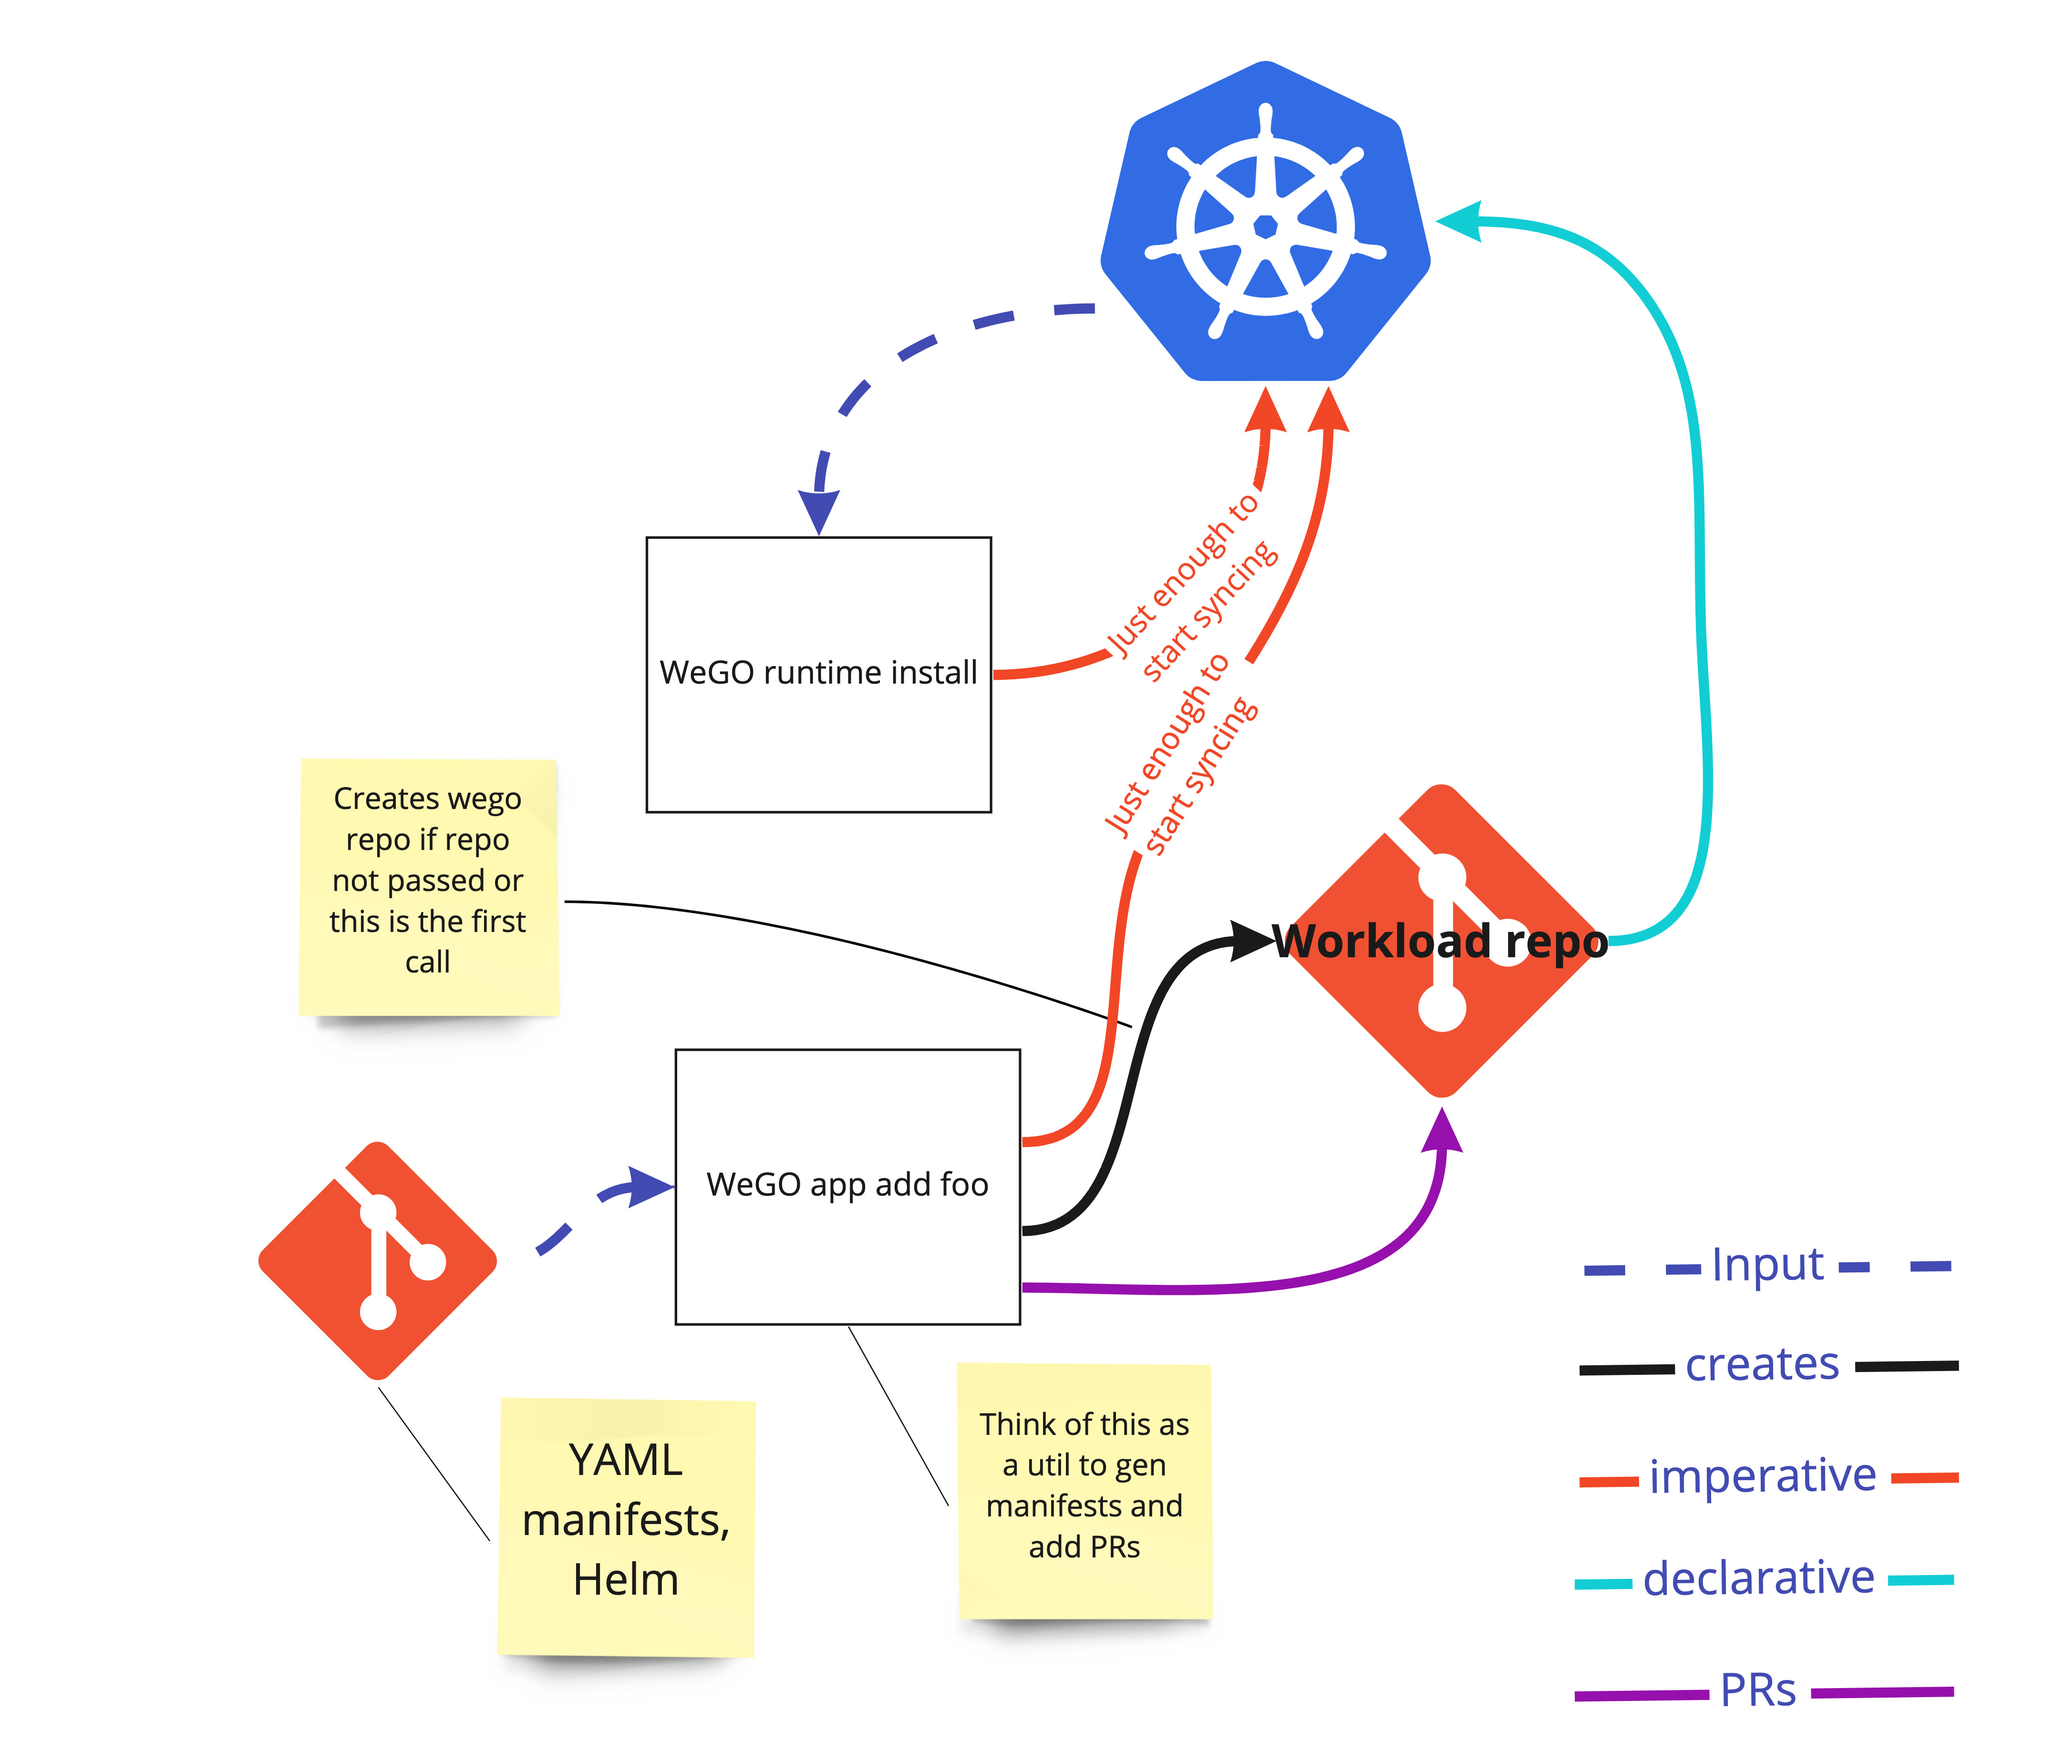
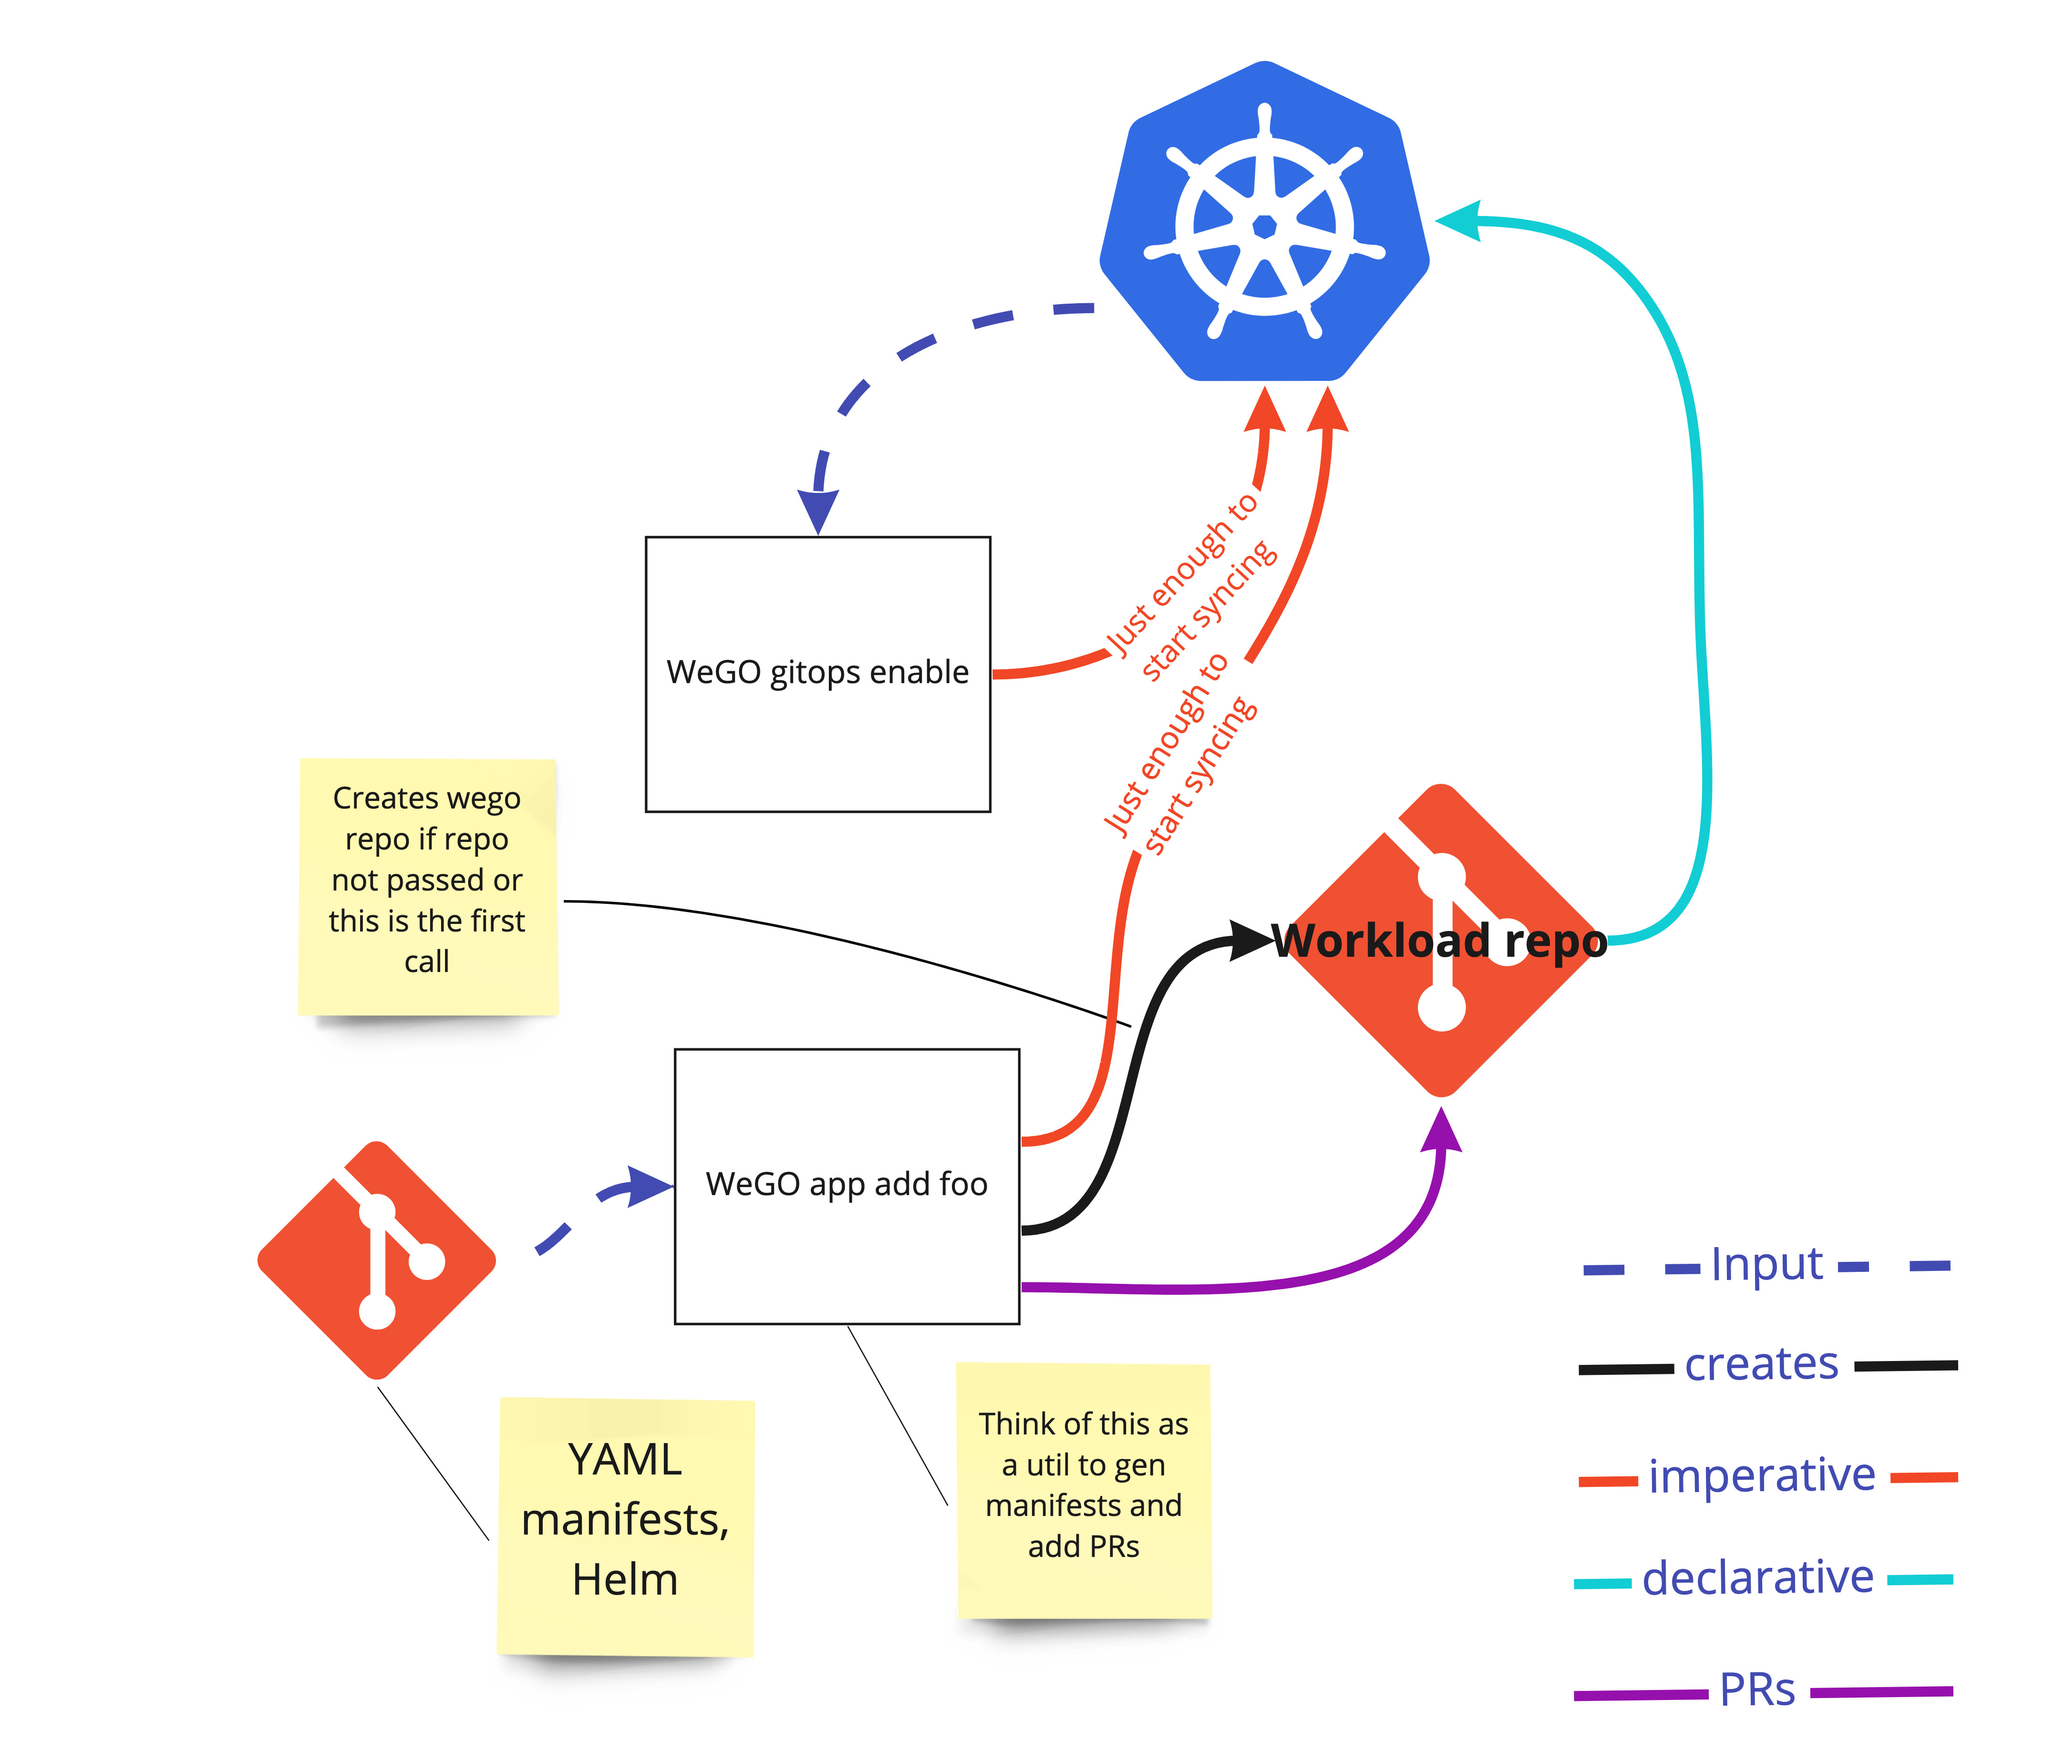
Change runtime install to gitops enable

diff --git a/docs/weps/WEP-001-Weave-gitops-core.md b/docs/weps/WEP-001-Weave-gitops-core.md
@@ -9,7 +9,7 @@
 *   **GitOps Runtime** - Consists of flux and all the tools in the GitOps toolkit.  i.e., kustomize controller, notification controller, image automation controller, etc.
 *   **Infra Repo** - repo containing the GitOps runtime (Flux + WeGO manifests).  Output from `flux install --export` plus WeGO CRDs and controllers
 *   **Target** - where the workload will be delivered - can be a Kubernetes cluster or a Team workspace
-*   **Wego Repo** - repo containing resources for GitOpsing applications.  e.g., source resources, kustomization resources, helm resources.  Additionally, the wego repo can contain application manifests directly.  A user may choose to combine the infra repo and wego repo by taking the repo created in `wego runtime install` and using that repo for `wego app add` calls.
+*   **Wego Repo** - repo containing resources for GitOpsing applications.  e.g., source resources, kustomization resources, helm resources.  Additionally, the wego repo can contain application manifests directly.  A user may choose to combine the infra repo and wego repo by taking the repo created in `wego gitops enable` and using that repo for `wego app add` calls.
 
 ### Summary 
 
@@ -19,7 +19,7 @@ Four commands will be created
 
 
 *   Add - used to configure an application for delivery to a cluster
-*   Install - used to install the GitOps runtime into a cluster
+*   Enable - used to apply the GitOps runtime to a cluster
 *   Status - provide status information to the user about applications and the GitOps runtime
 *   Version - provide version information for weave-gitops and the GitOps runtime
 
@@ -159,23 +159,23 @@ metadata:
 
 
 
-**Wego runtime install and Wego app add**
+**Wego gitops enable and Wego app add**
 
-![wego runtime install & wego app add](images/wego-add-install.jpg "Install and Add")
+![wego gitops enable & wego app add](images/wego-add-install.jpg "Install and Add")
 
 
 _See original at [miro board][miro-orig] and the frame titled “WeGO Core phase 1 wep”_
 
 
-#### wego runtime install 
+#### wego gitops enable 
 
-This installs the GitOps runtime into an environment.  In this phase, we execute the `flux install` command to install the GitOps runtime. Assuming the user has a cluster, and their kubeconfig is pointing to it, the user will execute 
+This adds the GitOps runtime into an environment.  In this phase, we execute the `flux install` command to perform the installation of the GitOps runtime. Assuming the user has a cluster, and their kubeconfig is pointing to it, the user will execute 
 
 ```console
-wego runtime install
+wego gitops enable
 ```
 
-In addition to installing the GitOps runtime, install will add the WeGO CRDs.  We need the WeGO CRDs installed so users can `kubectl` the list of wego objects in their cluster.  Additionally, this will help the wego status command.   In phase one, this will consist of the WeGOApp CRD.  See WeGO App Definition in the Wego app add section for additional details. 
+In addition to installing the GitOps runtime, `wego gitops enable` will add the WeGO CRDs.  We need the WeGO CRDs applied so users can `kubectl` the list of wego objects in their cluster.  Additionally, this will help the wego status command.   In phase one, this will consist of the WeGOApp CRD.  See WeGO App Definition in the Wego app add section for additional details. 
 
 When a user issues this command, an entry is made into the checkpoint SaaS service which provides us metrics on usage.  Wksctl control does this today and we will need similar data in our readme.  [Wksctl faq on checkpoint][wksctl-faq]
 
@@ -188,11 +188,11 @@ When a user issues this command, an entry is made into the checkpoint SaaS servi
 
 #### Wego app add
 
-See Wego runtime install and Wego app add image
+See Wego gitops enable and Wego app add image
 
 This command is used to configure the GitOps runtime to deliver an application to a cluster.
 
-The user starts with an existing application repo containing Kubernetes manifests.  The user also has a Kubernetes cluster configured with the GitOps runtime i.e., has issued `wego runtime install` against it.  If this is the first time running add for this cluster, `wego app add` will 
+The user starts with an existing application repo containing Kubernetes manifests.  The user also has a Kubernetes cluster configured with the GitOps runtime i.e., has issued `wego gitops enable` against it.  If this is the first time running add for this cluster, `wego app add` will 
 
 1. create a git repo with the structure identified in [Wego Directory Structure](#wego-directory-structure)
     1. The user may provide a repo for use as the wego repo.  This is important for environments (like Weaveworks) that restrict repo creation.  In this instance, we will add a wego top-level directory and a cluster name underneath which will house this information.
@@ -229,7 +229,7 @@ Additional `wego app add` invocations using the same cluster and wego repo will
     7. If wego has been configured to commit to the main branch, this step will be unnecessary 
 5. GitOps runtime engages to deliver the WeGOApp to the cluster
 
-Similar to `wego runtime install` add will interact with the checkpoint system to add metrics on usage.  One difference, `wego app add` will inform the user if the version of wego they are using is out of date.
+Similar to `wego gitops enable` add will interact with the checkpoint system to add metrics on usage.  One difference, `wego app add` will inform the user if the version of wego they are using is out of date.
 
 
 ### Wego Directory Structure
@@ -268,9 +268,9 @@ The WegoApp custom resource will be used by the UI and an operator in future rev
 
 #### Wego version 
 
-This command will print the version of wego installed and the version of flux that will be utilized by wego runtime install.
+This command will print the version of wego installed and the version of flux that will be utilized by wego gitops enable.
 
-Similar to `wego runtime install` version will interact with the checkpoint system and inform the user if the version of wego they are using is out of date.
+Similar to `wego gitops enable` version will interact with the checkpoint system and inform the user if the version of wego they are using is out of date.
 
 
 #### Wego app status 
@@ -293,7 +293,7 @@ Wego app status is used to inform the user about application(s).  The command wi
 
 Wego runtime status is used to inform the user about applications and the GitOps runtime.  The command will 
 
-*   Inform the user if the correct CRD versions for wego are installed
+*   Inform the user if the correct CRD versions for wego have been applied to the cluster
 *   Print the output of `flux check`
 *   Inform the user if a newer version of wego is available 
 
@@ -305,7 +305,7 @@ Wego runtime status is used to inform the user about applications and the GitOps
 
 ### Installing wego itself 
 
-Wego will be installed via curl.  Future versions may support other mechanisms such as yum or homebrew. 
+Wego CLI will be installed via curl.  Future versions may support other mechanisms such as yum or homebrew. 
 
 
 ### Test Plan 
